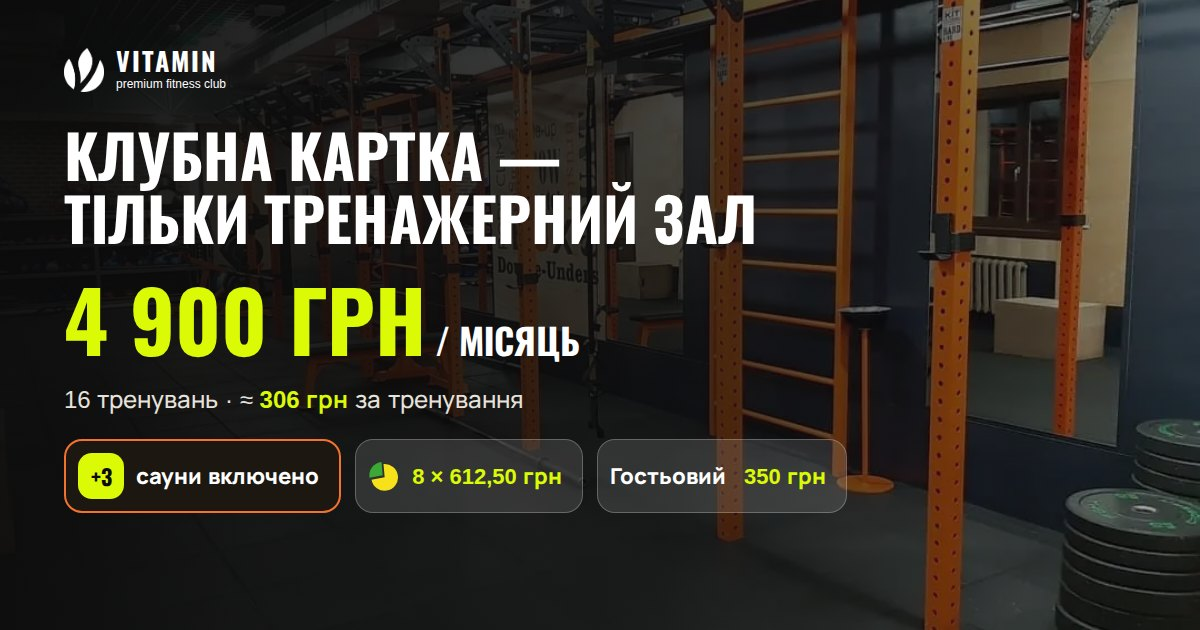
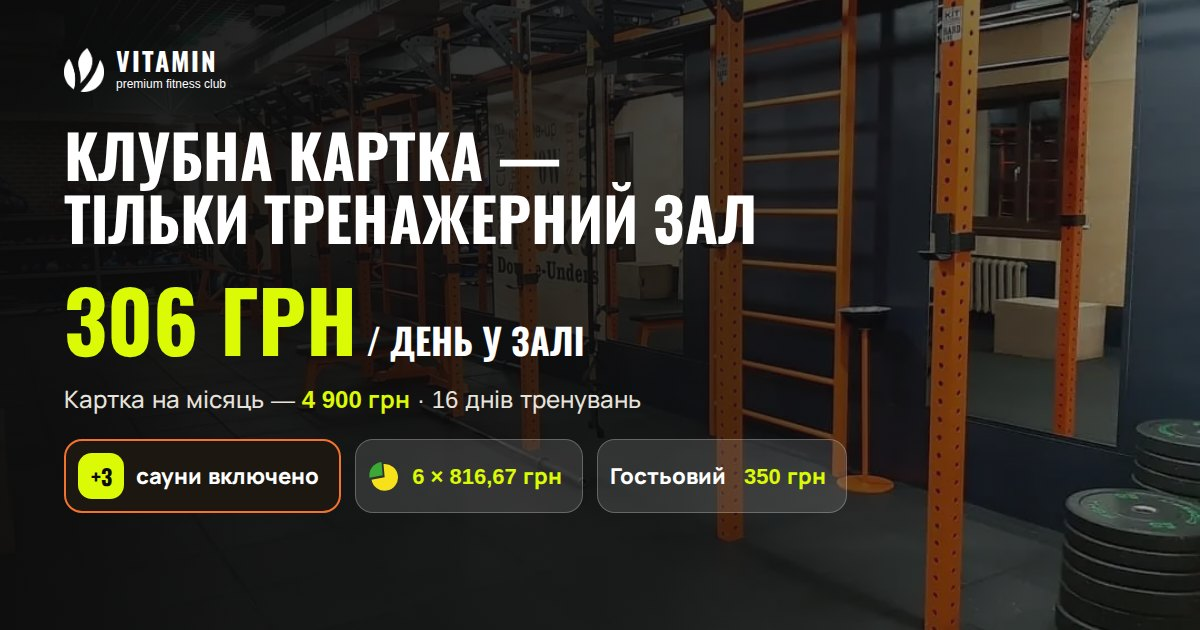
Gym landing: 306 UAH/day headline, 6 installments, trial day, no FAQ
- Headline price: 306 UAH per day in the gym, monthly card 4 900 UAH
  shown right below (16 days of training, full day)
- Installments: 6 x 816.67 UAH
- 'Guest visit' renamed to 'Trial day'; hero button shows the crossed
  700 and 350 UAH and what is included (gym + saunas)
- '4 times a week' badge in the comparison table
- FAQ section removed; share image updated

Claude-Session: https://claude.ai/code/session_01L5S9Ljpp8Kznsca9q8VmRa

Changed region(s): [[0.0308, 0.4524, 0.4933, 0.573], [0.0308, 0.6032, 0.555, 0.6635], [0.37, 0.7238, 0.4317, 0.7841]]

diff --git a/gym-landing/index.html b/gym-landing/index.html
@@ -4,11 +4,11 @@
     <meta charset="UTF-8">
     <meta name="viewport" content="width=device-width, initial-scale=1.0">
     <title>Клубна картка — тільки тренажерний зал | Vitamin Полтава</title>
-    <meta name="description" content="Клубна картка «Тренажерний зал + сауни» у Vitamin: 4 900 грн/місяць, 16 тренувань, ≈306 грн за тренування. Частинами 8 × 612,50 грн. Гостьовий візит за 350 грн.">
+    <meta name="description" content="Клубна картка «Тренажерний зал + сауни» у Vitamin: 306 грн за день у залі. Картка на місяць — 4 900 грн, 16 тренувань. Частинами 6 × 816,67 грн. пробний день за 350 грн.">
 
     <!-- Превʼю при репості посилання в Instagram / Facebook -->
     <meta property="og:title" content="Клубна картка — тільки тренажерний зал 💪">
-    <meta property="og:description" content="4 900 грн/місяць · 16 тренувань · 3 сауни включено. Частинами 8 × 612,50 грн. Гостьовий за 350 грн.">
+    <meta property="og:description" content="306 грн за день у залі · картка 4 900 грн/місяць · 3 сауни включено. Частинами 6 × 816,67 грн. Пробний день за 350 грн.">
     <meta property="og:image" content="https://promo.vitamincentr.pl.ua/img/og-image.jpg">
     <meta property="og:image:width" content="1200">
     <meta property="og:image:height" content="630">
@@ -68,7 +68,7 @@
         },
         {
             "@type": "Offer",
-            "name": "Гостьовий візит «Тренажерний зал + сауни»",
+            "name": "Пробний день (гостьовий візит) «Тренажерний зал + сауни»",
             "price": "350",
             "priceCurrency": "UAH"
         }
@@ -129,10 +129,10 @@
                 </h1>
                 <div class="hero__offer appear">
                     <p class="hero__price">
-                        <span class="accent"><span data-count="4900">4 900</span> грн</span>
-                        <span class="hero__price-unit">/ місяць</span>
+                        <span class="accent"><span data-count="306">306</span> грн</span>
+                        <span class="hero__price-unit">/ день у залі</span>
                     </p>
-                    <p class="hero__terms">16 тренувань · повний день · ≈ <b>306 грн</b> за тренування</p>
+                    <p class="hero__terms">Картка на місяць — <b>4 900 грн</b> · 16 днів тренувань · повний день</p>
                 </div>
 
                 <!-- Бонус: 3 сауни -->
@@ -152,14 +152,17 @@
                 <!-- Оплата частинами -->
                 <p class="pay-chip appear">
                     <img src="img/privat-chastynamy.svg" alt="" class="pay-chip__icon" width="26" height="26">
-                    <span>Частинами: <b>8 × 612,50 грн</b> · 0%</span>
+                    <span>Частинами: <b>6 × 816,67 грн</b> · 0%</span>
                     <span class="pay-chip__bank">ПриватБанк</span>
                 </p>
 
                 <p class="hero__text appear">Більше не треба переплачувати за те, чим не користуєшся.</p>
                 <div class="hero__actions appear">
                     <a href="#form" class="btn btn--pulse" data-choice="card">Хочу картку</a>
-                    <a href="#guest" class="btn btn--ghost">Гостьовий за 350 грн</a>
+                    <a href="#guest" class="btn btn--ghost btn--trial" data-choice="guest">
+                        <span class="btn__main">Пробний день <s>700</s> 350 грн</span>
+                        <span class="btn__sub">тренажерний зал + сауни</span>
+                    </a>
                 </div>
             </div>
         </section>
@@ -176,8 +179,8 @@
                     </div>
                     <div class="compare__row compare__row--price">
                         <span>Ціна за місяць</span>
-                        <span class="compare__col compare__col--ours"><b>4 900 грн</b><small>16 тренувань</small></span>
-                        <span class="compare__col"><b>5 600 грн</b><small>безліміт</small></span>
+                        <span class="compare__col compare__col--ours"><b>4 900 грн</b><small>16 тренувань</small><em class="compare__freq">4 рази на тиждень</em></span>
+                        <span class="compare__col"><b>5 600 грн</b><small>безліміт</small><em class="compare__freq compare__freq--muted">щодня</em></span>
                     </div>
                     <div class="compare__row">
                         <span>Тренажерний зал, кардіо, інструктаж</span>
@@ -201,7 +204,7 @@
                     </div>
                 </div>
                 <div class="compare__summary reveal">
-                    <p><b>16 тренувань на місяць — це 4 рази на тиждень.</b> Більше, ніж достатньо для результату. Не ходиш у басейн і на групові — навіщо за них платити?</p>
+                    <p><b>4 тренування на тиждень — більше, ніж достатньо для результату.</b> Не ходиш у басейн і на групові — навіщо за них платити?</p>
                     <p class="compare__save">Економія <span data-count="700">700</span> грн щомісяця</p>
                 </div>
             </div>
@@ -212,19 +215,19 @@
             <div class="container">
                 <div class="guest__card reveal">
                     <div class="guest__info">
-                        <p class="guest__label">Перший крок</p>
-                        <h2 class="guest__title">Не впевнений? Почни з гостьового візиту</h2>
+                        <p class="guest__label">Перший крок · −50%</p>
+                        <h2 class="guest__title">Не впевнений? Почни з пробного дня</h2>
                         <ul class="guest__list">
                             <li>Весь день, у будь-який час роботи клубу</li>
                             <li>Тренажерний зал + 3 сауни</li>
-                            <li>Купиш клубну картку протягом 14 днів після гостьового — <b>повернемо гроші за гостьовий</b></li>
+                            <li>Купиш клубну картку протягом 14 днів — <b>повернемо гроші за пробний день</b></li>
                         </ul>
                     </div>
                     <div class="guest__price">
                         <span class="guest__badge">−50%</span>
                         <s class="guest__old">700 грн</s>
                         <p class="guest__new"><span data-count="350">350</span> грн</p>
-                        <a href="#form" class="btn" data-choice="guest">Хочу на гостьовий</a>
+                        <a href="#form" class="btn" data-choice="guest">Хочу пробний день</a>
                     </div>
                 </div>
             </div>
@@ -266,9 +269,9 @@
                                 <p class="payment__bank">«Оплата частинами» · ПриватБанк</p>
                             </div>
                         </div>
-                        <p class="payment__sum">8 × 612,50 грн</p>
+                        <p class="payment__sum">6 × 816,67 грн</p>
                         <ul class="payment__list">
-                            <li>8 рівних платежів</li>
+                            <li>6 рівних платежів</li>
                             <li>0% відсотків</li>
                             <li>жодних переплат</li>
                         </ul>
@@ -306,7 +309,7 @@
             <div class="container order__inner">
                 <div class="order__content reveal">
                     <h2 class="section-title">Залиш заявку — розкажемо деталі</h2>
-                    <p class="section-text">Менеджер зателефонує, відповість на питання та допоможе оформити картку або записатися на гостьовий візит.</p>
+                    <p class="section-text">Менеджер зателефонує, відповість на питання та допоможе оформити картку або записатися на пробний день.</p>
                 </div>
                 <div class="reveal">
                     <form class="form" id="lead-form" name="tilky-zal" method="POST" data-netlify="true" netlify-honeypot="bot-field" data-send="netlify" data-offer="Клубна картка — тільки тренажерний зал" novalidate>
@@ -328,8 +331,8 @@
                                 <span>Клубна картка<small>4 900 грн / місяць</small></span>
                             </label>
                             <label class="form__option">
-                                <input type="radio" name="interest" value="Гостьовий візит" data-offer="Гостьовий візит — 350 грн">
-                                <span>Гостьовий візит<small>350 грн замість 700</small></span>
+                                <input type="radio" name="interest" value="Пробний день" data-offer="Пробний день (гостьовий, зал + сауни) — 350 грн">
+                                <span>Пробний день<small>350 грн замість 700</small></span>
                             </label>
                         </fieldset>
                         <label class="form__field">
@@ -349,25 +352,6 @@
                         <p>Ми зателефонуємо найближчим часом.</p>
                     </div>
                 </div>
-            </div>
-        </section>
-
-        <!-- 8. Питання -->
-        <section class="faq">
-            <div class="container">
-                <h2 class="section-title reveal">Часті питання</h2>
-                <details class="faq__item reveal">
-                    <summary class="faq__question">Я новачок. Мені підійде?</summary>
-                    <p class="faq__answer">Так. У картку входить інструктаж у тренажерному та кардіозалах — покажемо тренажери та правильну техніку.</p>
-                </details>
-                <details class="faq__item reveal">
-                    <summary class="faq__question">Коли можна тренуватися?</summary>
-                    <p class="faq__answer">ПН–ПТ з 07:00 до 21:00, СБ–НД з 09:00 до 17:00.</p>
-                </details>
-                <details class="faq__item reveal">
-                    <summary class="faq__question">Коли працюють сауни?</summary>
-                    <p class="faq__answer">За розкладом: є жіночі та чоловічі години. Точний розклад розповість менеджер.</p>
-                </details>
             </div>
         </section>
     </main>

diff --git a/gym-landing/style/style.css b/gym-landing/style/style.css
@@ -221,6 +221,33 @@ section {
     box-shadow: inset 0 0 0 2px rgba(255, 255, 255, 0.6);
 }
 
+/* Кнопка «Пробний день»: ціна з перекресленою старою + підпис що входить */
+.btn--trial {
+    display: inline-flex;
+    flex-direction: column;
+    align-items: center;
+    justify-content: center;
+    padding-top: 10px;
+    padding-bottom: 10px;
+    line-height: 1.15;
+}
+
+.btn--trial s {
+    margin: 0 4px;
+    font-weight: 500;
+    color: var(--grey);
+    text-decoration-color: var(--orange);
+    text-decoration-thickness: 2px;
+}
+
+.btn__sub {
+    font-family: var(--font-text);
+    font-size: 12px;
+    font-weight: 700;
+    text-transform: none;
+    color: var(--grey);
+}
+
 .btn--ghost:hover {
     box-shadow: inset 0 0 0 2px var(--lime);
 }
@@ -376,6 +403,24 @@ section {
     display: block;
     font-size: 13px;
     color: var(--grey);
+}
+
+.compare__freq {
+    display: inline-block;
+    margin-top: 6px;
+    padding: 3px 10px;
+    font-style: normal;
+    font-size: 13px;
+    font-weight: 800;
+    color: var(--bg);
+    background-color: var(--lime);
+    border-radius: 100px;
+    white-space: nowrap;
+}
+
+.compare__freq--muted {
+    color: var(--grey);
+    background-color: rgba(255, 255, 255, 0.08);
 }
 
 .compare__yes {
@@ -822,43 +867,6 @@ section {
     text-transform: uppercase;
 }
 
-/* 7. Питання */
-.faq__item {
-    border-bottom: 1px solid rgba(255, 255, 255, 0.15);
-}
-
-.faq__question {
-    position: relative;
-    padding: 16px 40px 16px 0;
-    font-size: 17px;
-    font-weight: 700;
-    cursor: pointer;
-    list-style: none;
-}
-
-.faq__question::-webkit-details-marker {
-    display: none;
-}
-
-.faq__question::after {
-    content: '+';
-    position: absolute;
-    right: 0;
-    top: 10px;
-    font-size: 28px;
-    color: var(--lime);
-    transition: transform 0.3s;
-}
-
-.faq__item[open] .faq__question::after {
-    transform: rotate(45deg);
-}
-
-.faq__answer {
-    padding-bottom: 16px;
-    color: var(--grey);
-}
-
 /* Підвал */
 .footer {
     padding: 28px 0 96px;
@@ -1077,7 +1085,8 @@ section {
     }
 
     .compare__row--price b {
-        font-size: 20px;
+        font-size: 18px;
+        white-space: nowrap;
     }
 
     .compare__save {

diff --git a/gym-landing/js/main.js b/gym-landing/js/main.js
@@ -85,7 +85,7 @@ function chosenOffer() {
 // Кнопки «Хочу картку» / «Хочу на гостьовий» одразу відмічають потрібний варіант у формі
 document.querySelectorAll('[data-choice]').forEach(function (link) {
     link.addEventListener('click', function () {
-        const value = link.dataset.choice === 'guest' ? 'Гостьовий візит' : 'Клубна картка';
+        const value = link.dataset.choice === 'guest' ? 'Пробний день' : 'Клубна картка';
         const radio = form.querySelector('input[name="interest"][value="' + value + '"]');
         if (radio) {
             radio.checked = true;

diff --git a/landing-oplata-chastynamy/js/main.js b/landing-oplata-chastynamy/js/main.js
@@ -85,7 +85,7 @@ function chosenOffer() {
 // Кнопки «Хочу картку» / «Хочу на гостьовий» одразу відмічають потрібний варіант у формі
 document.querySelectorAll('[data-choice]').forEach(function (link) {
     link.addEventListener('click', function () {
-        const value = link.dataset.choice === 'guest' ? 'Гостьовий візит' : 'Клубна картка';
+        const value = link.dataset.choice === 'guest' ? 'Пробний день' : 'Клубна картка';
         const radio = form.querySelector('input[name="interest"][value="' + value + '"]');
         if (radio) {
             radio.checked = true;

diff --git a/gym-landing/brief.md b/gym-landing/brief.md
@@ -53,14 +53,17 @@
 7. Футер: контакти.
 
 ## Оновлення пропозиції (жовтень 2026) — актуально
-- Картка «Тренажерний зал + сауни» (ТЗ+С (П)): **1 місяць, 16 тренувань, повний день — 4 900 грн**, ≈ **306 грн за тренування**.
+- Картка «Тренажерний зал + сауни» (ТЗ+С (П)): **1 місяць, 16 тренувань, повний день — 4 900 грн**.
+  Головна цифра на сайті — **306 грн / день у залі** (один візит = весь день), 4 900 грн за місяць показуємо поруч.
+  16 тренувань = **4 рази на тиждень**.
   Правило «повну вартість не називаємо» **скасовано**: ціну й термін показуємо одразу.
-- Оплата частинами: **8 рівних платежів по 612,50 грн**, «Оплата частинами» ПриватБанк, 0%.
-- Гостьовий візит ТЗ+С (разовий): **700 → 350 грн (−50%)**, весь день, у будь-який час роботи клубу.
+- Оплата частинами: **6 рівних платежів по 816,67 грн**, «Оплата частинами» ПриватБанк, 0%.
+- **Пробний день** (гостьовий візит ТЗ+С, разовий): **700 → 350 грн (−50%)**, весь день, у будь-який час роботи клубу.
   Купив клубну картку протягом **14 календарних днів** після гостьового — повертаємо гроші за гостьовий (суму окремо не називаємо).
 - Порівняння: «тільки зал + сауни» 4 900 грн vs повна картка (безліміт) 5 600 грн → економія 700 грн/міс.
   Ціну за відвідування в безліміту НЕ рахуємо (5 600 / 30 ≈ 187 грн — виходить не на нашу користь).
-- У формі вибір: «Клубна картка» / «Гостьовий візит» — потрапляє в заголовок заявки.
+- У формі вибір: «Клубна картка» / «Пробний день» — потрапляє в заголовок заявки.
+- Блок «Часті питання» прибрано.
 
 ## Язык
 Украинский (как на постере).
